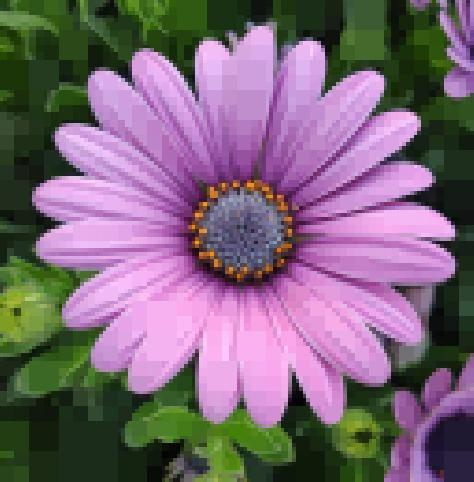
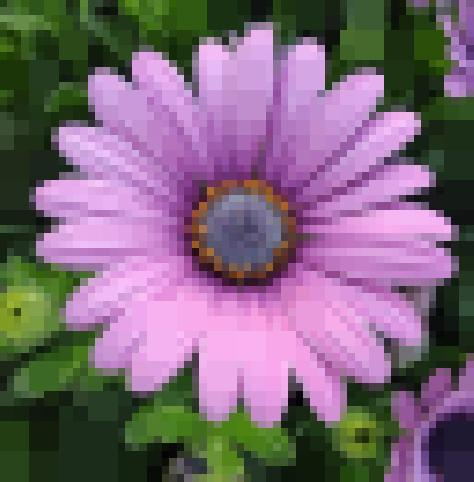
Changes in the depth and error threshold

diff --git a/scripts/main.js b/scripts/main.js
@@ -72,7 +72,7 @@ class Quadtree {
     _getError(imageData, boundingBox) {
         let totalError = 0;
         const averageColor = this._getAverageColor(imageData, boundingBox);
-        
+
         for (let x = boundingBox.x; x < boundingBox.x + boundingBox.width; x++) {
             for (let y = boundingBox.y; y < boundingBox.y + boundingBox.height; y++) {
                 const index = (y * this.width + x) * 4;
@@ -128,8 +128,8 @@ async function main() {
     ctx.drawImage(image, 0, 0, image.width, image.height);
     const imageData = ctx.getImageData(0, 0, canvas.width, canvas.height);
 
-    const maxDepth = 7; 
-    const errorThreshold = 30; 
+    const maxDepth = 6; 
+    const errorThreshold = 35; 
     // Convert Image to Quadtree
     const quadtree = new Quadtree(imageData, maxDepth, errorThreshold);
     // Convert the quadtree to an image
